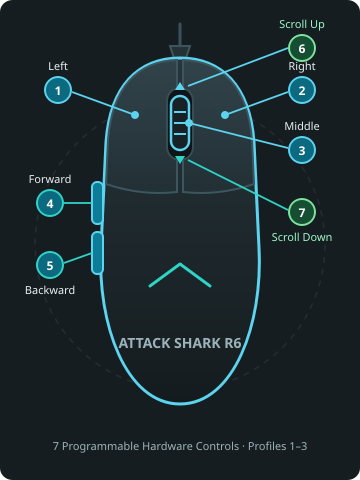
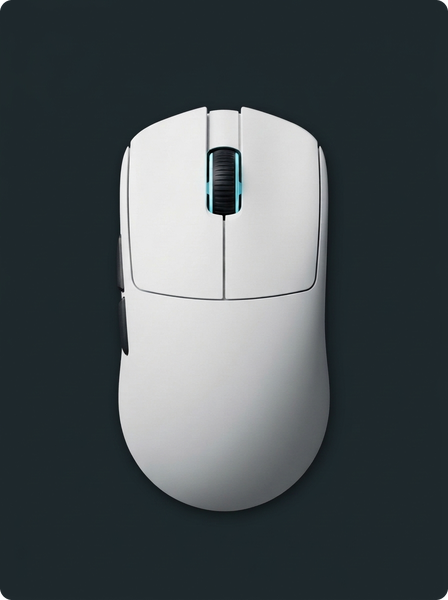
style: upgrade to matte-white studio R6 artwork and fix keybinding card wrap (v1.0.1)
Replace flat vector mouse illustrations with original GPLv3 matte-white studio renders for the app icon, key binding diagram, and 8K wireless hardware preview; fix hint text word-wrapping in the Key Binding card.

diff --git a/attackshark_r6/gui.py b/attackshark_r6/gui.py
@@ -1214,8 +1214,10 @@ class MainWindow(QMainWindow):
         # Left column: mouse diagram
         left_card = QFrame()
         left_card.setObjectName("Card")
-        left_card.setMinimumWidth(280)
+        left_card.setMinimumWidth(310)
         lc_lay = QVBoxLayout(left_card)
+        lc_lay.setContentsMargins(16, 16, 16, 16)
+        lc_lay.setSpacing(12)
         lc_lay.setAlignment(Qt.AlignCenter)
         img_lbl = QLabel()
         pm = _asset_pixmap("mouse_diagram.png")
@@ -1223,7 +1225,10 @@ class MainWindow(QMainWindow):
             img_lbl.setPixmap(pm.scaledToHeight(360, Qt.SmoothTransformation))
         img_lbl.setAlignment(Qt.AlignCenter)
         lc_lay.addWidget(img_lbl)
-        hint = QLabel("Click any button on the right to remap it\nto mouse, keyboard, macro, media, or DPI actions.")
+        hint = QLabel(
+            "Click any button on the right to remap it to mouse, keyboard, macro, media, or DPI actions."
+        )
+        hint.setWordWrap(True)
         hint.setAlignment(Qt.AlignCenter)
         hint.setStyleSheet("color: #9cb2ba;")
         lc_lay.addWidget(hint)
@@ -1481,7 +1486,9 @@ class MainWindow(QMainWindow):
         self.dev_pic_lbl = QLabel()
         pm = _asset_pixmap("device_wireless.png")
         if not pm.isNull():
-            self.dev_pic_lbl.setPixmap(pm.scaledToHeight(210, Qt.SmoothTransformation))
+            self.dev_pic_lbl.setPixmap(
+                pm.scaled(280, 210, Qt.KeepAspectRatio, Qt.SmoothTransformation)
+            )
         db_lay.addWidget(self.dev_pic_lbl)
 
         self.dev_info_lbl = QLabel("No device connected.")

diff --git a/attackshark_r6/__init__.py b/attackshark_r6/__init__.py
@@ -1,4 +1,4 @@
 """Native Linux driver and configuration suite for the ATTACK SHARK R6 mouse."""
 
-__version__ = "1.0.0"
+__version__ = "1.0.1"
 __app_name__ = "ATTACK SHARK R6"

diff --git a/README.md b/README.md
@@ -220,7 +220,7 @@ attackshark-r6-linux/
 │   ├── settings.py        # XDG atomic JSON settings persistence (~/.config/attackshark-r6/settings.json)
 │   ├── cli.py             # Argparse CLI frontend
 │   └── gui.py             # PyQt5 Control Center + zero-resource system tray idle mode
-├── assets/                # 100% original GPL-3.0 SVG + rendered PNG icons & hardware diagrams
+├── assets/                # Original GPL-3.0 matte-white studio PNG renders & pairing icon
 ├── tests/
 │   ├── test_protocol.py   # Protocol frame, macro codec, hidraw normalization, RLock & settings tests
 │   └── test_gui_tray.py   # Offscreen PyQt5 Settings & tray suspend/resume tests
